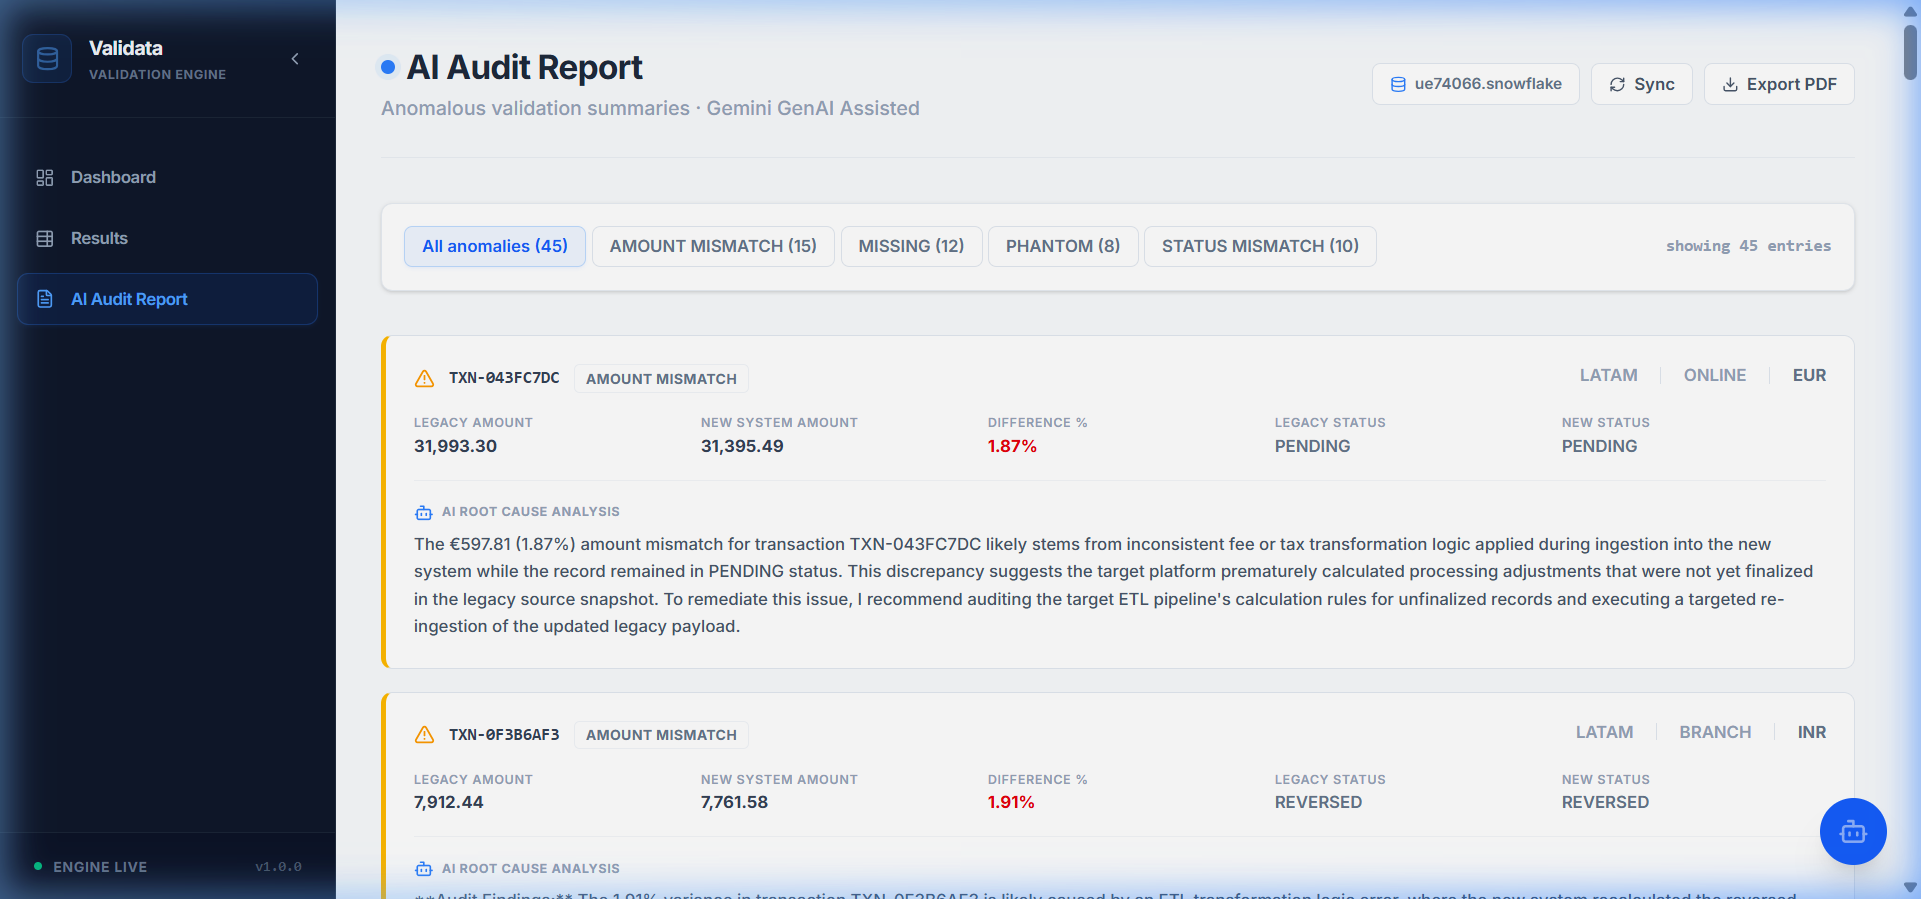
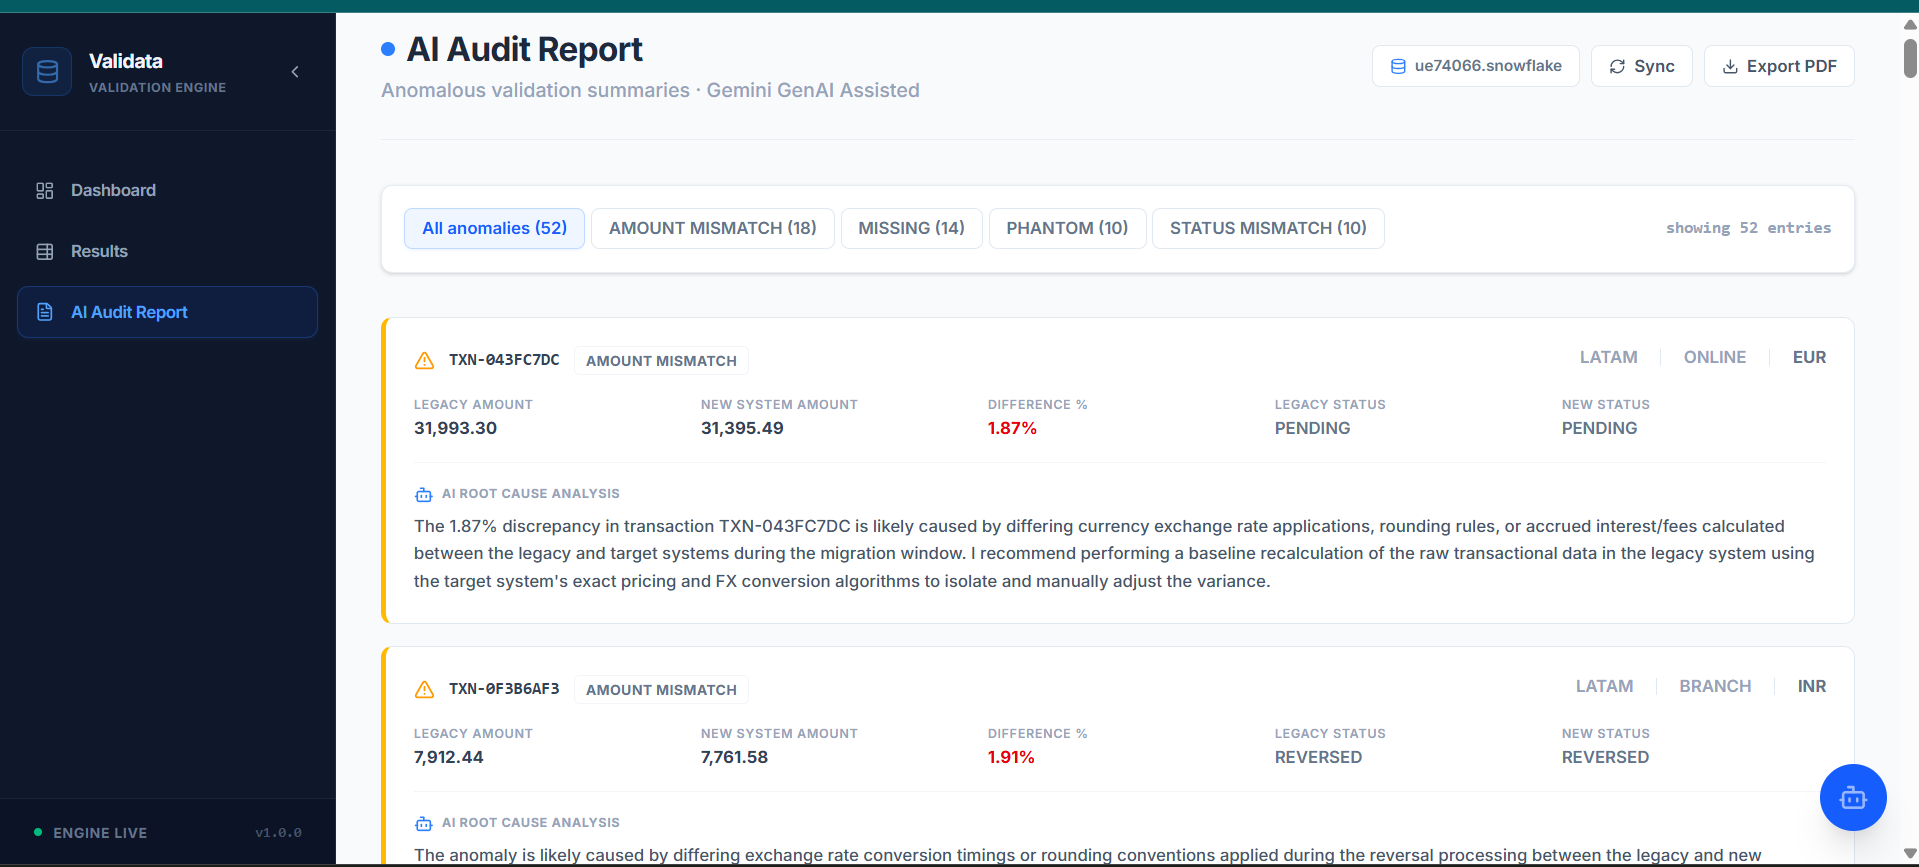
docs: update system documentation and dashboard screenshots

diff --git a/README.md b/README.md
@@ -34,7 +34,7 @@ The engine leverages an AWS-native PySpark data pipeline via **AWS Glue** and **
   ┌──────────────────────────────────────────────────┐
   │              Snowflake Data Lake                 │
   │  - (ValiData_DB.CURATED_SCHEMA.RESULTS)          │
-  │  - 06_ai_anomaly_explanation (Gemini 2.0 Flash)  │
+  │  - 06_ai_anomaly_explanation (Gemini 3.5 Flash-lite)│
   └────────────────────────┬─────────────────────────┘
                            │
                            ▼ SQL Queries
